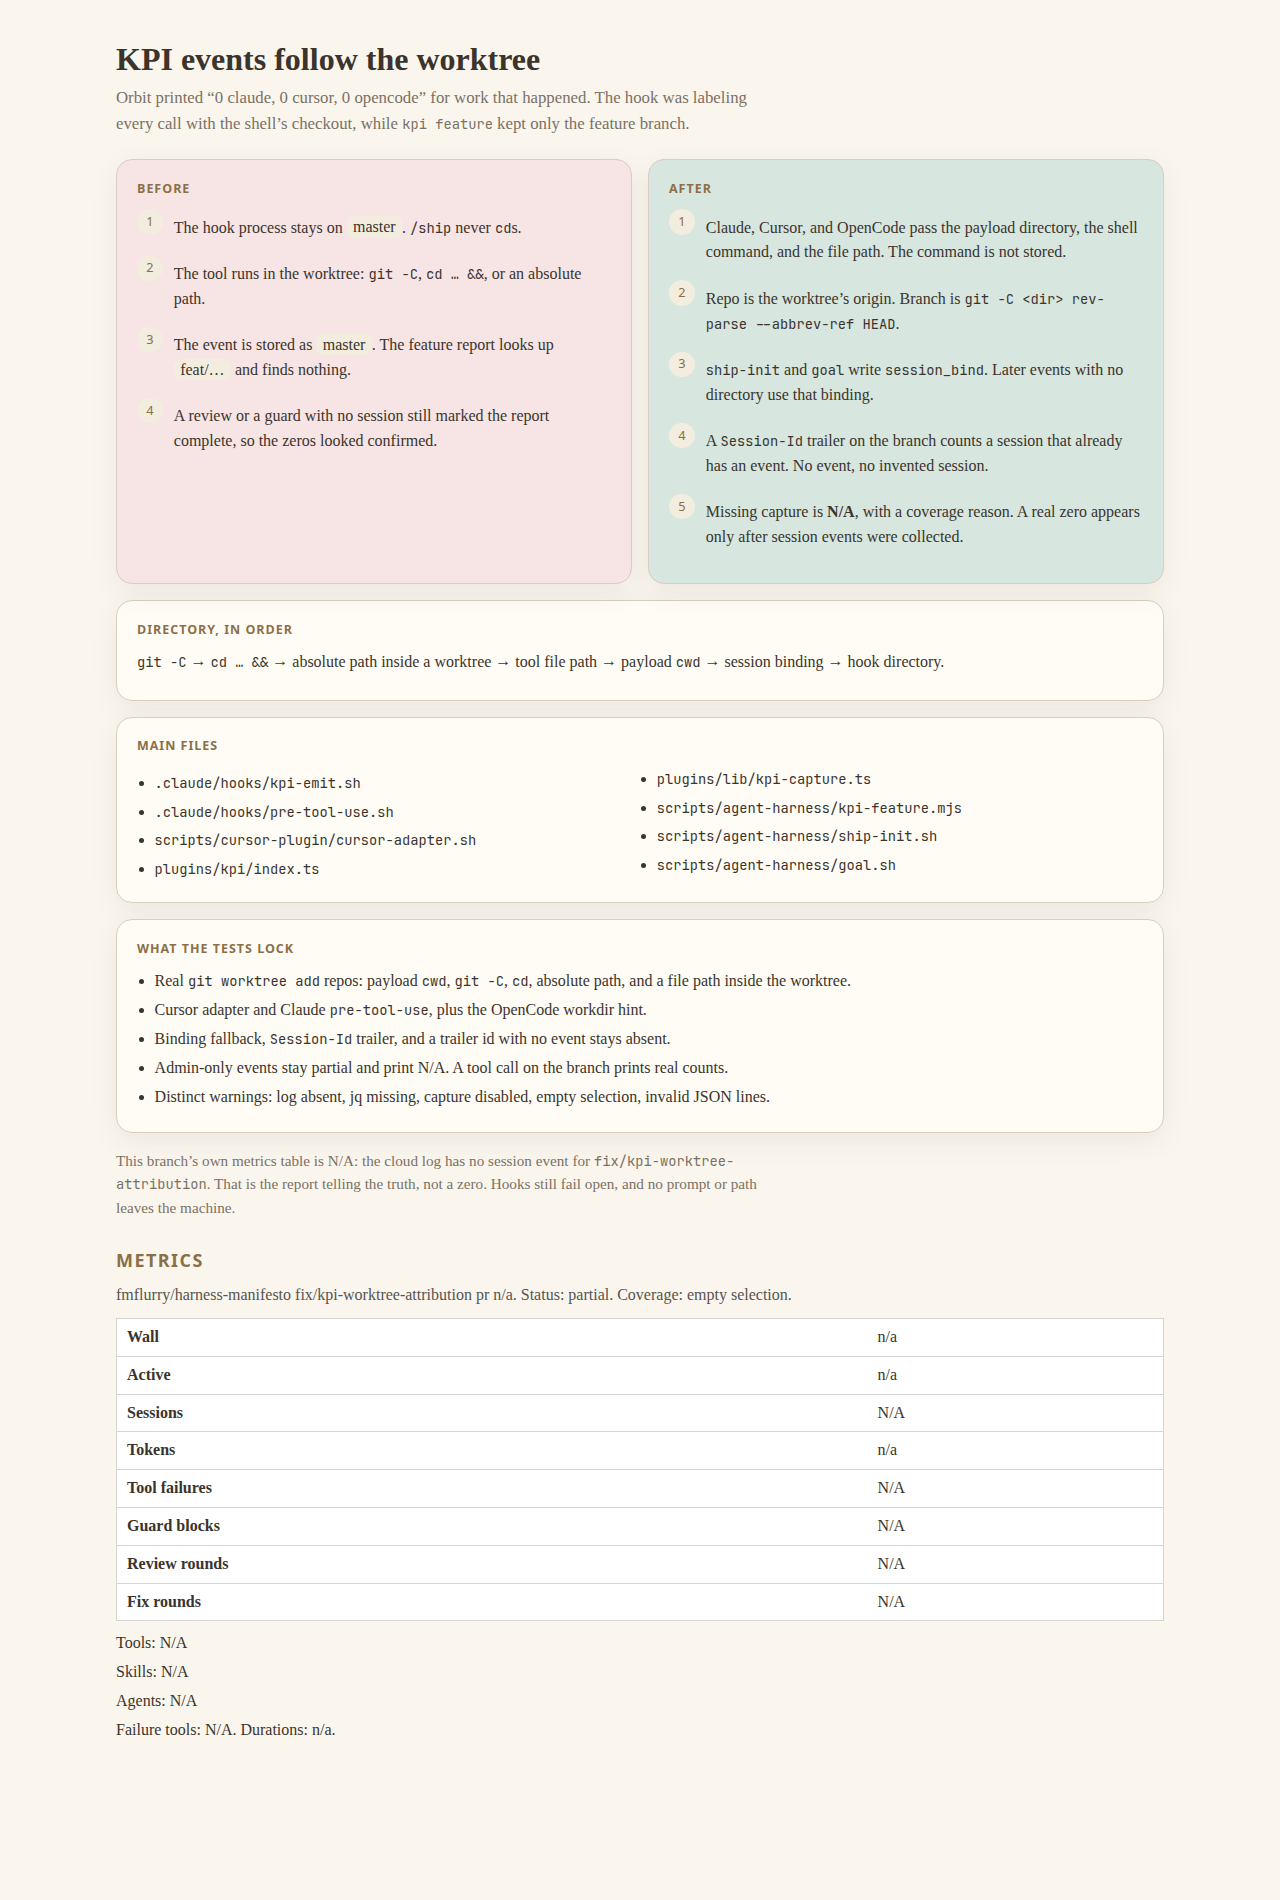
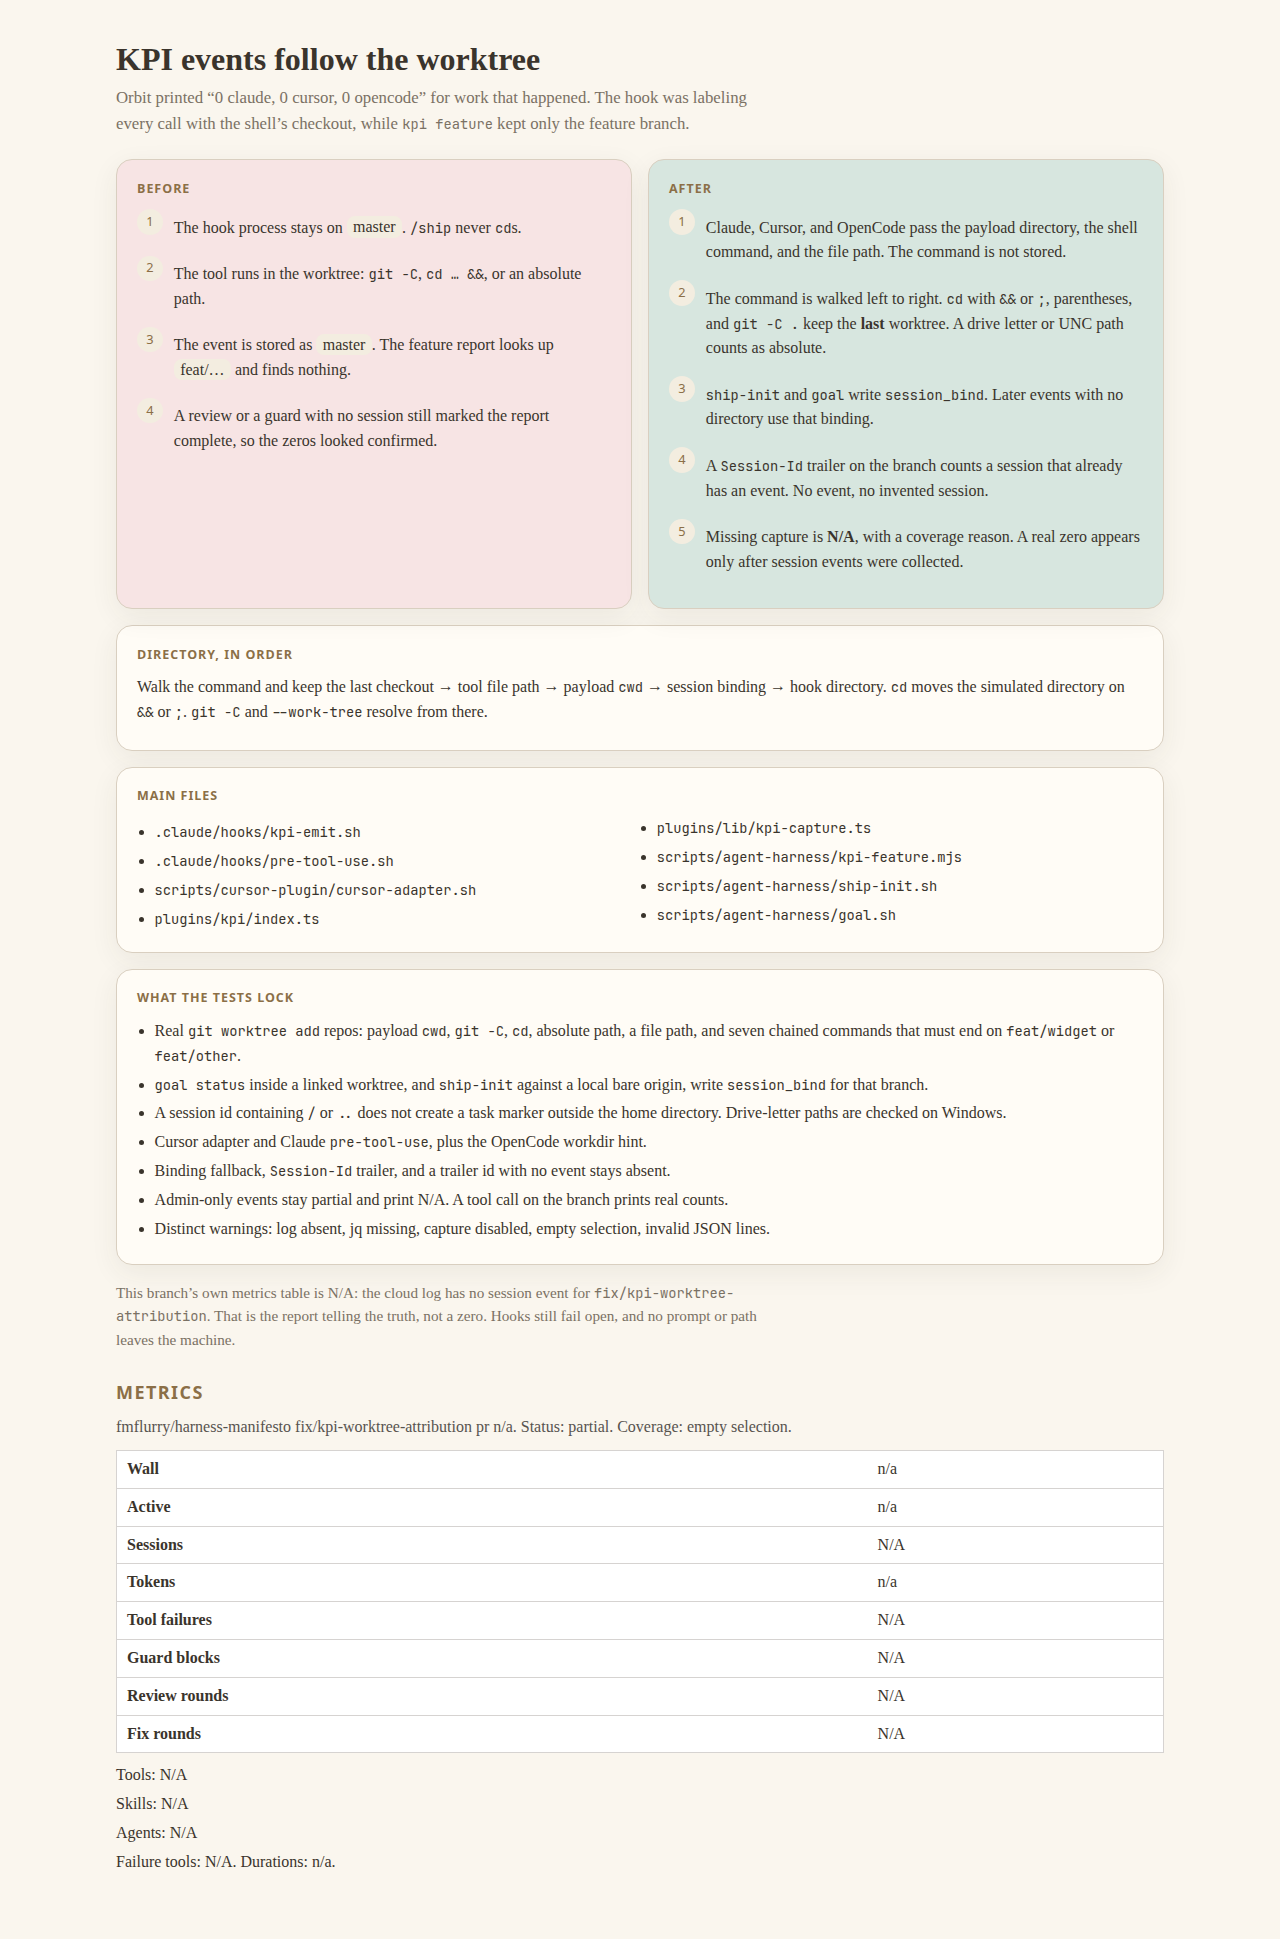
docs(pr): refresh worktree kpi report

diff --git a/docs/pr-reports/fix-kpi-worktree-attribution.html b/docs/pr-reports/fix-kpi-worktree-attribution.html
@@ -84,7 +84,7 @@
     <section class="card good">
       <h2>After</h2>
       <div class="step"><span class="n">1</span><p>Claude, Cursor, and OpenCode pass the payload directory, the shell command, and the file path. The command is not stored.</p></div>
-      <div class="step"><span class="n">2</span><p>Repo is the worktree’s origin. Branch is <code>git -C &lt;dir&gt; rev-parse --abbrev-ref HEAD</code>.</p></div>
+      <div class="step"><span class="n">2</span><p>The command is walked left to right. <code>cd</code> with <code>&amp;&amp;</code> or <code>;</code>, parentheses, and <code>git -C .</code> keep the <strong>last</strong> worktree. A drive letter or UNC path counts as absolute.</p></div>
       <div class="step"><span class="n">3</span><p><code>ship-init</code> and <code>goal</code> write <code>session_bind</code>. Later events with no directory use that binding.</p></div>
       <div class="step"><span class="n">4</span><p>A <code>Session-Id</code> trailer on the branch counts a session that already has an event. No event, no invented session.</p></div>
       <div class="step"><span class="n">5</span><p>Missing capture is <strong>N/A</strong>, with a coverage reason. A real zero appears only after session events were collected.</p></div>
@@ -93,7 +93,7 @@
 
   <section class="card" style="margin-top:1rem">
     <h2>Directory, in order</h2>
-    <p><code>git -C</code> → <code>cd … &amp;&amp;</code> → absolute path inside a worktree → tool file path → payload <code>cwd</code> → session binding → hook directory.</p>
+    <p>Walk the command and keep the last checkout → tool file path → payload <code>cwd</code> → session binding → hook directory. <code>cd</code> moves the simulated directory on <code>&amp;&amp;</code> or <code>;</code>. <code>git -C</code> and <code>--work-tree</code> resolve from there.</p>
   </section>
 
   <section class="card" style="margin-top:1rem">
@@ -113,7 +113,9 @@
   <section class="card" style="margin-top:1rem">
     <h2>What the tests lock</h2>
     <ul>
-      <li>Real <code>git worktree add</code> repos: payload <code>cwd</code>, <code>git -C</code>, <code>cd</code>, absolute path, and a file path inside the worktree.</li>
+      <li>Real <code>git worktree add</code> repos: payload <code>cwd</code>, <code>git -C</code>, <code>cd</code>, absolute path, a file path, and seven chained commands that must end on <code>feat/widget</code> or <code>feat/other</code>.</li>
+      <li><code>goal status</code> inside a linked worktree, and <code>ship-init</code> against a local bare origin, write <code>session_bind</code> for that branch.</li>
+      <li>A session id containing <code>/</code> or <code>..</code> does not create a task marker outside the home directory. Drive-letter paths are checked on Windows.</li>
       <li>Cursor adapter and Claude <code>pre-tool-use</code>, plus the OpenCode workdir hint.</li>
       <li>Binding fallback, <code>Session-Id</code> trailer, and a trailer id with no event stays absent.</li>
       <li>Admin-only events stay partial and print N/A. A tool call on the branch prints real counts.</li>
@@ -122,6 +124,8 @@
   </section>
 
   <p class="note">This branch’s own metrics table is N/A: the cloud log has no session event for <code>fix/kpi-worktree-attribution</code>. That is the report telling the truth, not a zero. Hooks still fail open, and no prompt or path leaves the machine.</p>
+
+
 
 <section id="kpi-metrics" style="margin-top:28px">
 <h2 style="font-size:18px;margin:0 0 8px">Metrics</h2>
